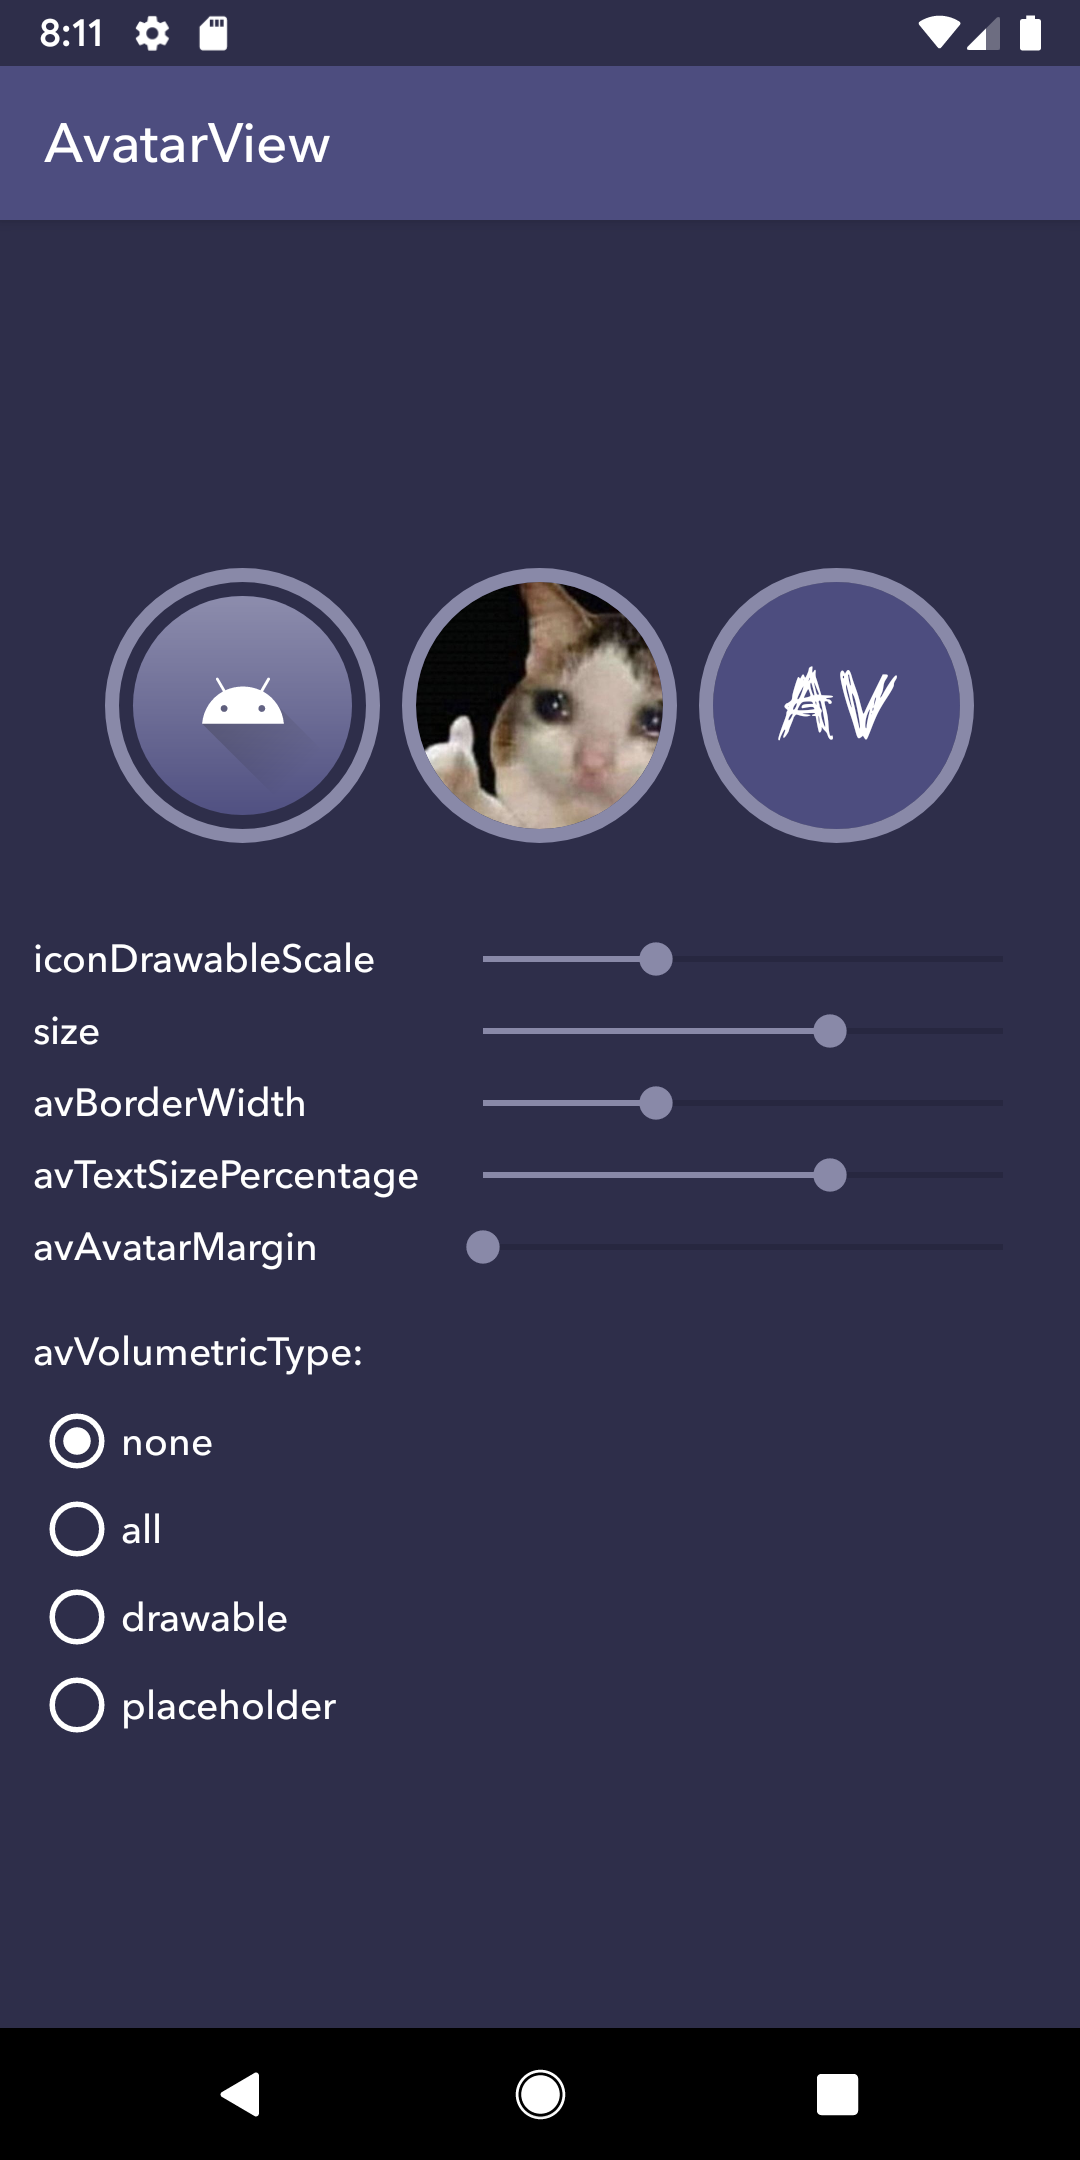
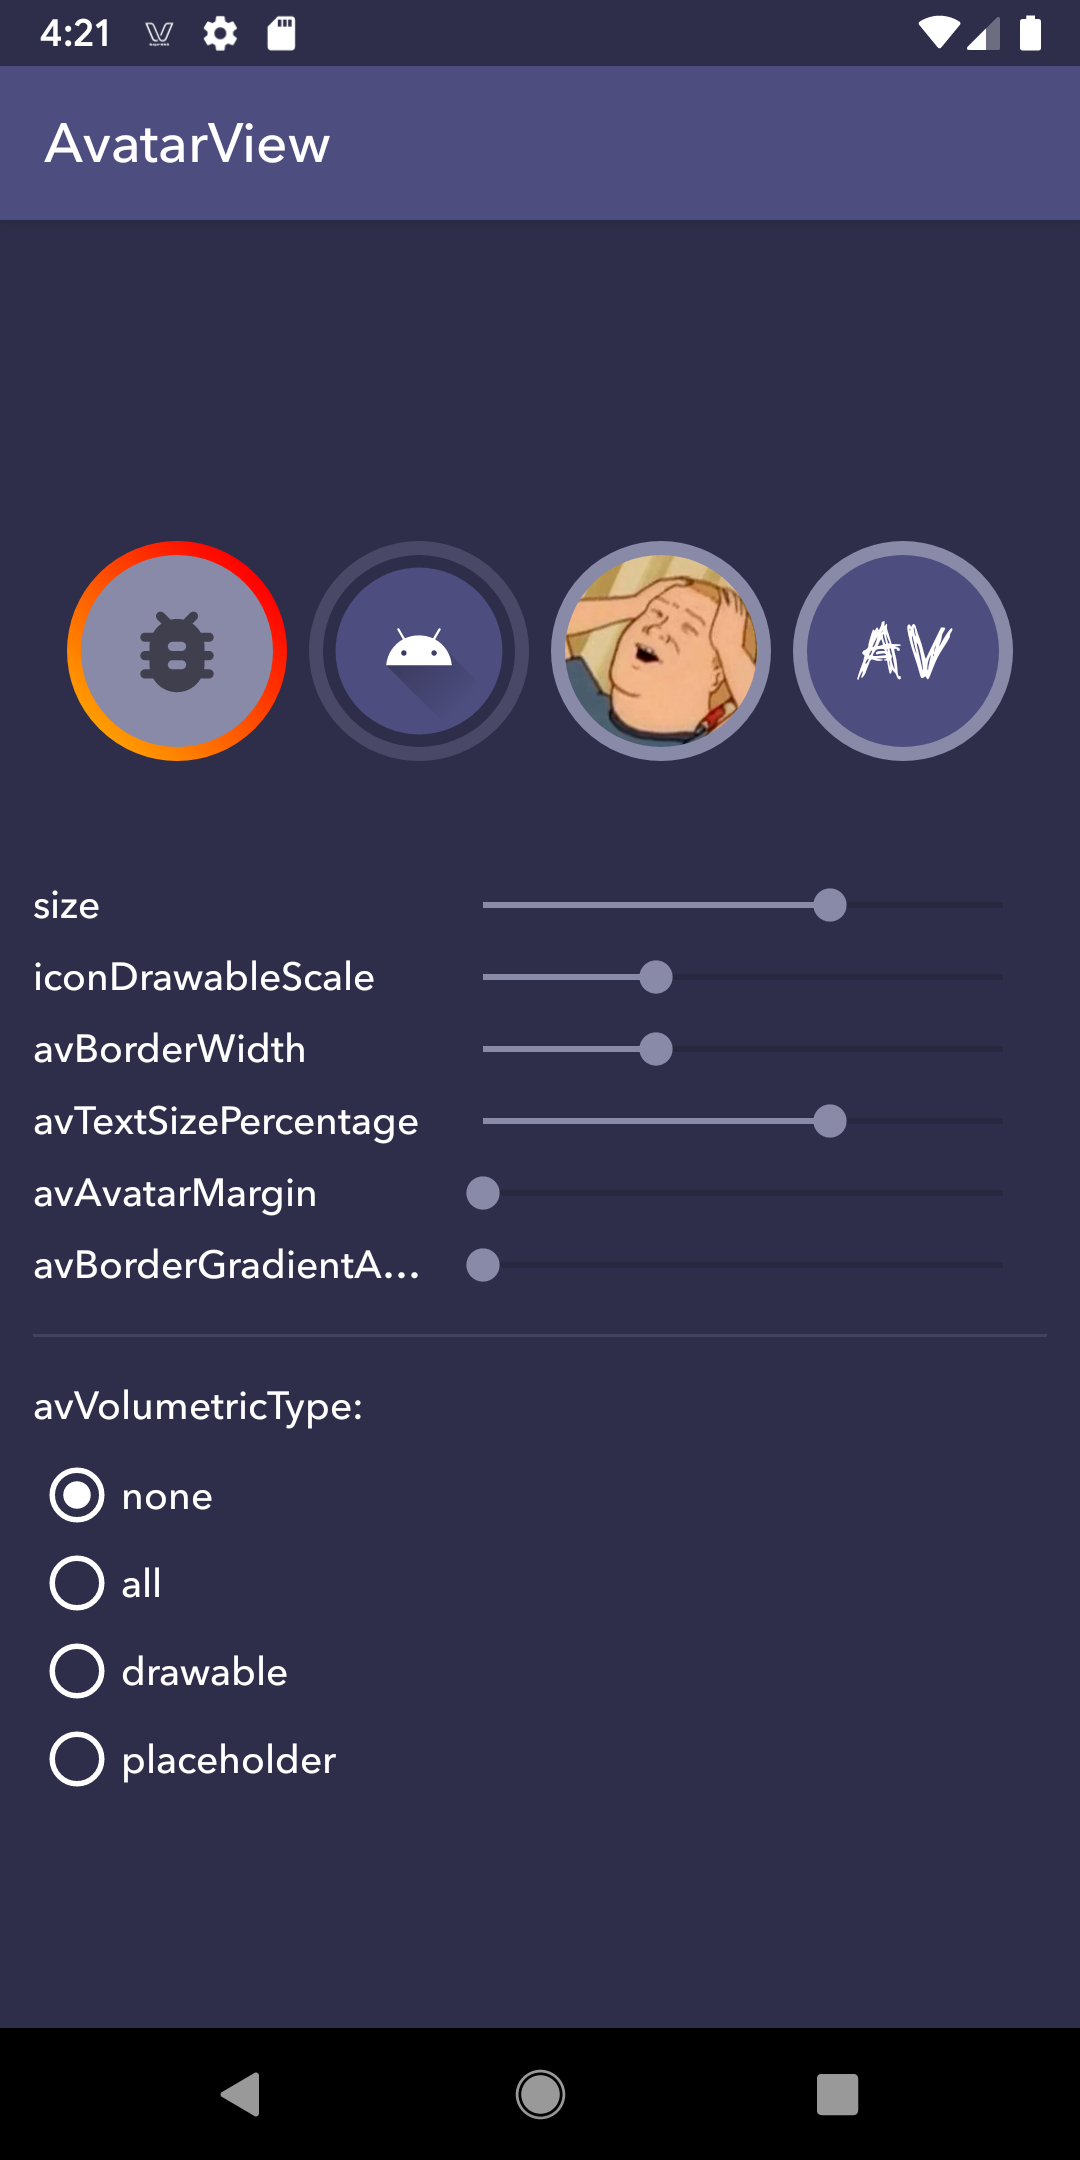
Gradient added

diff --git a/widget/src/main/java/com/goodayapps/widget/AvatarDrawable.kt b/widget/src/main/java/com/goodayapps/widget/AvatarDrawable.kt
@@ -9,6 +9,8 @@ import android.text.StaticLayout
 import android.text.TextPaint
 import androidx.annotation.ColorInt
 import androidx.annotation.Dimension
+import kotlin.math.cos
+import kotlin.math.sin
 
 class AvatarDrawable(
 		placeholderText: CharSequence?,
@@ -18,6 +20,8 @@ class AvatarDrawable(
 		private val backgroundColor: Int = Color.BLACK,
 		private val textColor: Int = Color.WHITE,
 		private val borderColor: Int = Color.BLACK,
+		private val borderColorSecondary: Int? = null,
+		private val borderGradientAngle: Int = 0,
 		private val avatarDrawable: Drawable?,
 		private val iconDrawableScale: Float = .5f,
 		private val volumetricType: VolumetricType = VolumetricType.ALL,
@@ -26,7 +30,7 @@ class AvatarDrawable(
 ) : Drawable() {
 	private var textLayout: StaticLayout? = null
 
-	private var namePaint = TextPaint(Paint.ANTI_ALIAS_FLAG).apply {
+	private var placeholderPaint = TextPaint(Paint.ANTI_ALIAS_FLAG).apply {
 		this.textSize = this@AvatarDrawable.textSize
 		this.color = textColor
 
@@ -34,6 +38,18 @@ class AvatarDrawable(
 			this.typeface = textTypeface
 		}
 		this.xfermode = PorterDuffXfermode(PorterDuff.Mode.SRC_ATOP)
+	}
+
+	private var textOverPaint = TextPaint(Paint.ANTI_ALIAS_FLAG).apply {
+		this.textSize = this@AvatarDrawable.textSize
+		this.color = textColor
+
+		if (textTypeface != null) {
+			this.typeface = textTypeface
+		}
+		this.style = Paint.Style.FILL
+
+		this.xfermode = PorterDuffXfermode(PorterDuff.Mode.SRC_OVER)
 	}
 
 	private var avatarBackgroundPaint = Paint(Paint.ANTI_ALIAS_FLAG).apply {
@@ -58,13 +74,21 @@ class AvatarDrawable(
 	private val borderPaint = Paint().apply {
 		this.isAntiAlias = true
 		this.style = Paint.Style.STROKE
-		this.color = borderColor
 		this.strokeWidth = borderWidth.toFloat()
+		this.shader = getGradientShader(borderColor, borderColorSecondary ?: borderColor)
+	}
+
+	private val textOverBackgroundPaint = Paint().apply {
+		this.isAntiAlias = true
+		this.style = Paint.Style.STROKE
+		this.strokeWidth = borderWidth * 2f
+		this.shader = getGradientShader(Color.TRANSPARENT, Color.GREEN)
 	}
 
 	private val clipPaint = Paint().apply {
 		this.color = Color.WHITE
 		this.xfermode = PorterDuffXfermode(PorterDuff.Mode.SRC_ATOP)
+		this.style = Paint.Style.FILL_AND_STROKE
 	}
 
 	private var bufferBitmap: Bitmap = Bitmap.createBitmap(size, size, Bitmap.Config.ARGB_8888)
@@ -86,6 +110,8 @@ class AvatarDrawable(
 			options.backgroundPlaceholderColor,
 			options.textColor,
 			options.borderColor,
+			options.borderColorSecondary,
+			options.borderGradientAngle,
 			options.avatarDrawable,
 			options.iconDrawableScale,
 			options.volumetricType,
@@ -96,11 +122,11 @@ class AvatarDrawable(
 	init {
 		circleRadius = (size / 2.0f)
 		circleCenter = circleRadius
-		backgroundCircleRadius = circleRadius - avatarMargin - borderWidth
+		backgroundCircleRadius = circleRadius - avatarMargin - (borderWidth * .90f)
 
 		textLayout = placeholderText?.let {
 			if (android.os.Build.VERSION.SDK_INT >= android.os.Build.VERSION_CODES.M) {
-				StaticLayout.Builder.obtain(it, 0, it.length, namePaint, size)
+				StaticLayout.Builder.obtain(it, 0, it.length, placeholderPaint, size)
 						.setAlignment(Layout.Alignment.ALIGN_CENTER)
 						.setLineSpacing(1f, 1f)
 						.setIncludePad(false)
@@ -108,7 +134,7 @@ class AvatarDrawable(
 			} else {
 				StaticLayout(
 						it,
-						namePaint,
+						placeholderPaint,
 						size,
 						Layout.Alignment.ALIGN_CENTER,
 						1f,
@@ -174,13 +200,43 @@ class AvatarDrawable(
 			bufferCanvas.drawCircle(
 					circleCenter,
 					circleCenter,
-					circleRadius - (borderWidth / 2),
+					circleRadius - (borderWidth / 2f),
 					borderPaint
 			)
 		}
 
+		//TODO drawTextOver()
+
 		canvas.drawBitmap(bufferBitmap, Matrix(), null)
 		canvas.restore()
+	}
+
+	private fun drawTextOver() {
+		val radius = circleRadius - borderWidth
+		bufferCanvas.drawCircle(
+				circleCenter,
+				circleCenter,
+				radius,
+				textOverBackgroundPaint
+		)
+
+		val path = Path()
+		bufferCanvas.save()
+		bufferCanvas.rotate((borderGradientAngle + 45).toFloat(), circleCenter, circleCenter)
+		path.addCircle(circleCenter, circleCenter, radius, Path.Direction.CCW)
+		bufferCanvas.drawTextOnPath("#OPENTOWORK", path, 0f, 0f, textOverPaint)
+		bufferCanvas.restore()
+	}
+
+	override fun setAlpha(alpha: Int) {
+	}
+
+	override fun setColorFilter(colorFilter: ColorFilter?) {
+
+	}
+
+	override fun getOpacity(): Int {
+		return PixelFormat.TRANSLUCENT
 	}
 
 	private fun drawBitmap(isIconDrawable: Boolean, avatarBitmap: Bitmap) {
@@ -214,15 +270,29 @@ class AvatarDrawable(
 		bufferCanvas.drawCircle(circleCenter, circleCenter, backgroundCircleRadius, gradientPaint)
 	}
 
-	override fun setAlpha(alpha: Int) {
-	}
+	private fun getGradientShader(@ColorInt colorStart: Int, @ColorInt colorEnd: Int): LinearGradient {
+		val angleInRadians = Math.toRadians(borderGradientAngle.toDouble())
+		val length = size
 
-	override fun setColorFilter(colorFilter: ColorFilter?) {
+		val r = size / 2f
+		val centerX: Float = length / 2f
+		val centerY: Float = length / 2f
 
-	}
+		val startX = 0.0.coerceAtLeast(size.toDouble().coerceAtMost(centerX - r * cos(angleInRadians))).toFloat()
+		val startY = size.toDouble().coerceAtMost(0.0.coerceAtLeast(centerY - r * sin(angleInRadians))).toFloat()
 
-	override fun getOpacity(): Int {
-		return PixelFormat.TRANSLUCENT
+		val endX = 0.0.coerceAtLeast(size.toDouble().coerceAtMost(centerX + r * cos(angleInRadians))).toFloat()
+		val endY = size.toDouble().coerceAtMost(0.0.coerceAtLeast(centerY + r * sin(angleInRadians))).toFloat()
+
+		return LinearGradient(
+				startX,
+				startY,
+				endX,
+				endY,
+				intArrayOf(colorStart, colorEnd),
+				null,
+				Shader.TileMode.CLAMP
+		)
 	}
 
 	class Options {
@@ -234,6 +304,11 @@ class AvatarDrawable(
 
 		@ColorInt
 		var borderColor: Int = Color.BLACK
+
+		@ColorInt
+		var borderColorSecondary: Int? = null
+
+		var borderGradientAngle: Int = 0
 
 		@Dimension(unit = Dimension.PX)
 		var textSize: Float = 0f

diff --git a/widget/src/main/java/com/goodayapps/widget/AvatarView.kt b/widget/src/main/java/com/goodayapps/widget/AvatarView.kt
@@ -11,9 +11,10 @@ import androidx.annotation.ColorInt
 import androidx.annotation.Dimension
 import androidx.annotation.RequiresApi
 import androidx.appcompat.widget.AppCompatImageView
-import androidx.core.content.res.ResourcesCompat
 import com.goodayapps.widget.utils.colorAttribute
 import com.goodayapps.widget.utils.convertDpToPixel
+import com.goodayapps.widget.utils.getColorOrNull
+import com.goodayapps.widget.utils.getTypefaceOrNull
 
 open class AvatarView : AppCompatImageView {
 	companion object {
@@ -22,6 +23,11 @@ open class AvatarView : AppCompatImageView {
 
 	@ColorInt
 	var borderColor: Int = Color.BLACK
+
+	@ColorInt
+	var borderColorSecondary: Int? = null
+
+
 	var textTypeface: Typeface? = null
 
 	@ColorInt
@@ -56,6 +62,11 @@ open class AvatarView : AppCompatImageView {
 			postInvalidate()
 		}
 	var volumetricType: AvatarDrawable.VolumetricType = AvatarDrawable.VolumetricType.ALL
+		set(value) {
+			field = value
+			postInvalidate()
+		}
+	var borderGradientAngle = 0
 		set(value) {
 			field = value
 			postInvalidate()
@@ -115,8 +126,10 @@ open class AvatarView : AppCompatImageView {
 			}
 			this.textSize = textSizeFin * textSizePercentage
 			this.borderColor = this@AvatarView.borderColor
+			this.borderColorSecondary = this@AvatarView.borderColorSecondary
 			this.backgroundPlaceholderColor = this@AvatarView.backgroundPlaceholderColor
 			this.borderWidth = this@AvatarView.borderWidth
+			this.borderGradientAngle = this@AvatarView.borderGradientAngle
 			this.volumetricType = this@AvatarView.volumetricType
 			this.textTypeface = this@AvatarView.textTypeface
 			this.iconDrawableScale = this@AvatarView.iconDrawableScale
@@ -130,17 +143,16 @@ open class AvatarView : AppCompatImageView {
 		val colorAccent = context.colorAttribute(R.attr.colorAccent)
 		backgroundPlaceholderColor = typedArray.getColor(R.styleable.AvatarView_avBackgroundColor, colorAccent)
 		borderColor = typedArray.getColor(R.styleable.AvatarView_avBorderColor, colorAccent)
+		borderColorSecondary = typedArray.getColorOrNull(R.styleable.AvatarView_avBorderColorSecondary)
 		borderWidth = typedArray.getDimensionPixelSize(R.styleable.AvatarView_avBorderWidth, borderWidth)
+		borderGradientAngle = typedArray.getInt(R.styleable.AvatarView_avBorderGradientAngle, borderGradientAngle)
 		textSizePercentage = typedArray.getFloat(R.styleable.AvatarView_avTextSizePercentage, DEFAULT_TEXT_SIZE_PERCENTAGE)
 		volumetricType = AvatarDrawable.VolumetricType.from(typedArray.getInt(R.styleable.AvatarView_avVolumetricType, -1))
 		placeholderText = typedArray.getText(R.styleable.AvatarView_placeholderText)
 		iconDrawableScale = typedArray.getFloat(R.styleable.AvatarView_iconDrawableScale, iconDrawableScale)
 		avatarMargin = typedArray.getDimensionPixelSize(R.styleable.AvatarView_avAvatarMargin, avatarMargin)
 
-		val typefaceId = typedArray.getResourceId(R.styleable.AvatarView_android_fontFamily, 0)
-		if (typefaceId != 0) {
-			textTypeface = ResourcesCompat.getFont(this.context, typefaceId)
-		}
+		textTypeface = typedArray.getTypefaceOrNull(context, R.styleable.AvatarView_android_fontFamily)
 
 		//Get Drawable
 		typedArray.getDrawable(R.styleable.AvatarView_android_src)?.let { setImageDrawable(it) }
@@ -148,7 +160,7 @@ open class AvatarView : AppCompatImageView {
 
 	override fun drawableStateChanged() {
 		super.drawableStateChanged()
-		invalidate()
+		postInvalidate()
 	}
 
 }

diff --git a/widget/src/main/java/com/goodayapps/widget/utils/TypedArray.kt b/widget/src/main/java/com/goodayapps/widget/utils/TypedArray.kt
@@ -1,0 +1,29 @@
+package com.goodayapps.widget.utils
+
+import android.content.Context
+import android.content.res.TypedArray
+import android.graphics.Typeface
+import androidx.annotation.ColorInt
+import androidx.annotation.StyleableRes
+import androidx.core.content.res.ResourcesCompat
+
+@ColorInt
+fun TypedArray.getColorOrNull(@StyleableRes index: Int): Int? {
+	val color = getColor(index, Integer.MAX_VALUE)
+
+	return if (color == Integer.MAX_VALUE) {
+		null
+	} else {
+		color
+	}
+}
+
+fun TypedArray.getTypefaceOrNull(context: Context, @StyleableRes index: Int): Typeface? {
+	val resId = getResourceId(index, 0)
+
+	return if (resId != 0) {
+		ResourcesCompat.getFont(context, resId)
+	}else{
+		null
+	}
+}

diff --git a/app/src/main/java/com/goodayapps/avatarview/MainActivity.kt b/app/src/main/java/com/goodayapps/avatarview/MainActivity.kt
@@ -73,6 +73,15 @@ class MainActivity : AppCompatActivity() {
 				}
 			}
 		}
+		avBorderGradientAngle.setOnSeekBarChangeListener(object : OnSeekBarChangeListener() {
+			override fun onProgressChanged(seekBar: SeekBar?, progress: Int, fromUser: Boolean) {
+				applyToAvatars {
+					it.borderGradientAngle = progress
+				}
+			}
+		})
+
+
 	}
 
 	private inline fun applyToAvatars(action: (AvatarView) -> Unit) {
